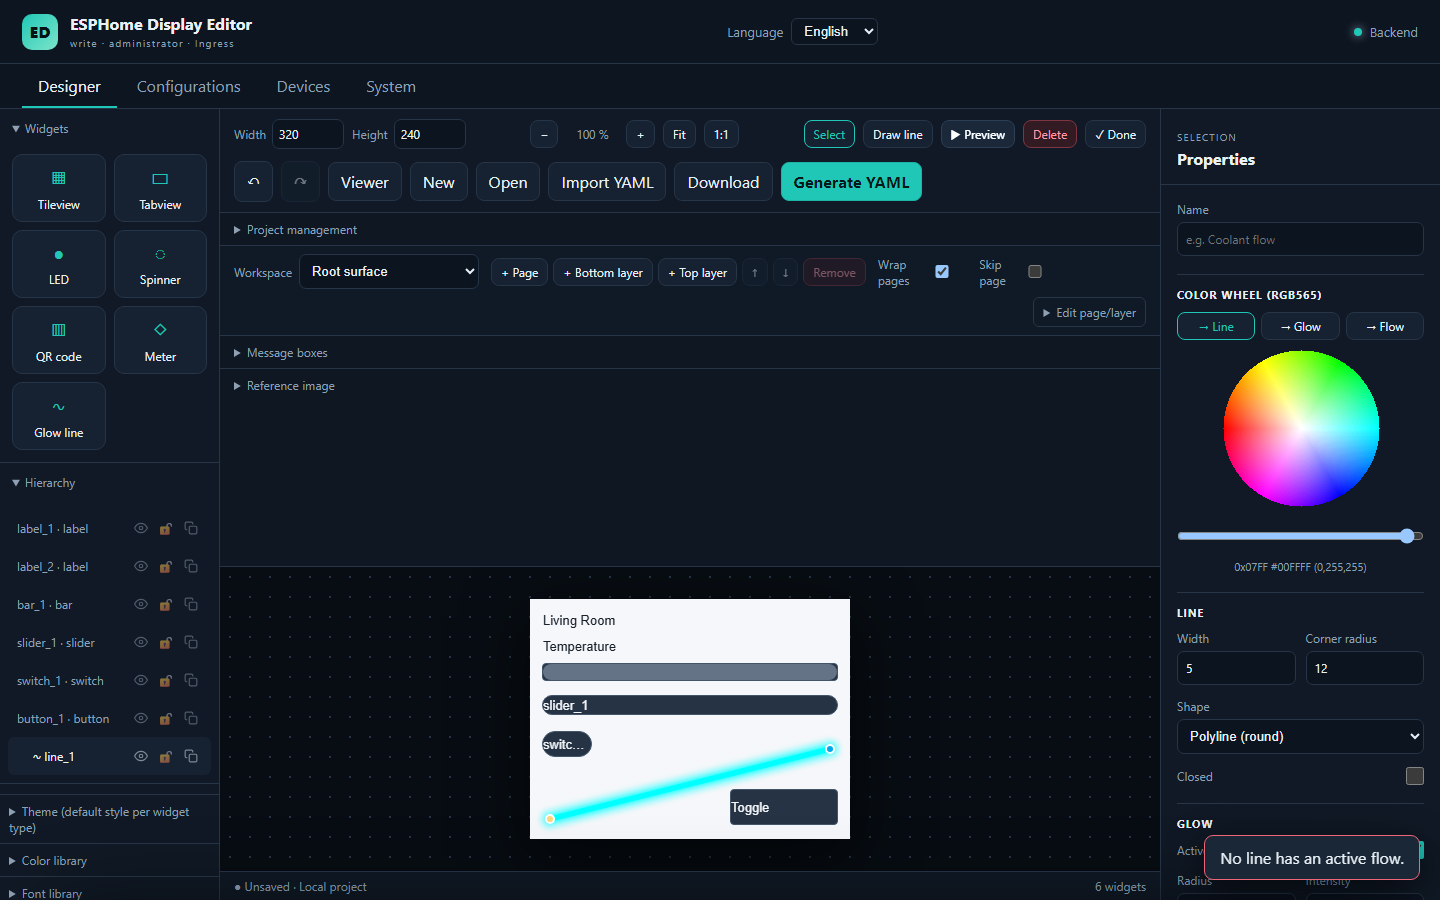
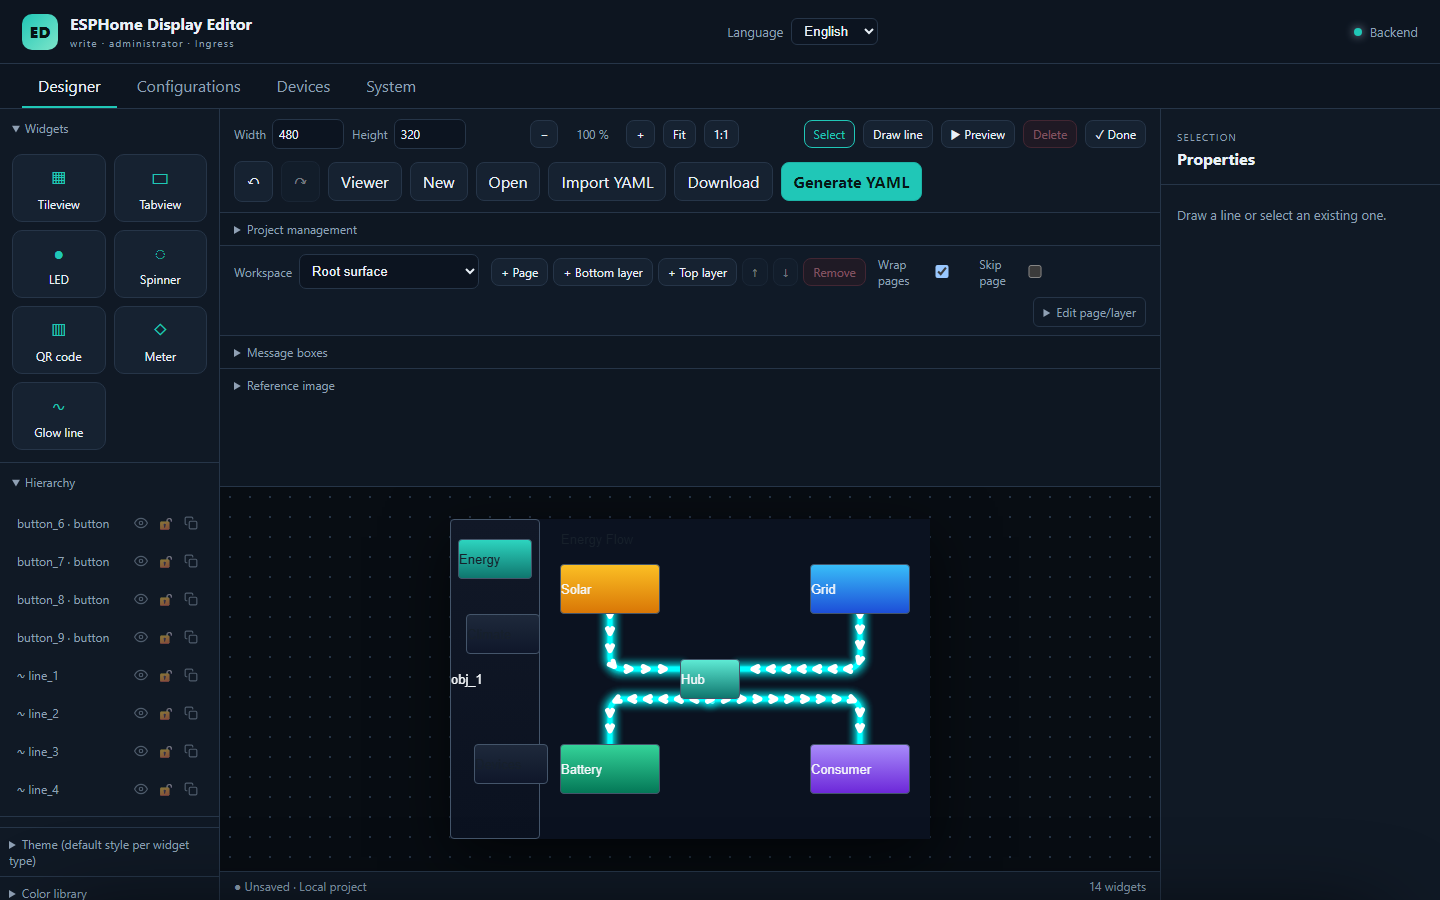
edit readme

diff --git a/README.md b/README.md
@@ -65,12 +65,27 @@ state and content — in the properties panel on the right.
 ### GlowLine animated flow lines
 
 Draw a line by adding it from the palette and dragging its endpoint handles
-into place; an RGB565 colour wheel lets you tune the line, glow and flow
-colours to exactly what the target display will reproduce.
+into place, then use "Draw line" to append further points — corners snap to
+straight, right-angled segments just as easily as a curved diagonal. An
+RGB565 colour wheel and per-line line/glow/flow settings (in the properties
+panel on the right) let you tune exactly what the target display will
+reproduce.
 
-![A glowing diagonal flow line drawn on the canvas](docs/screenshots/glowline-editor.png)
+A small energy-flow dashboard built entirely from Designer widgets: a
+sidebar navigation menu, four components (Solar, Grid, Battery, Consumer)
+routed through a central hub with right-angled GlowLines, each with its own
+animated flow. The component cards use the same per-widget style properties
+as any other widget — background gradient, gradient direction and a
+colour-matched glow shadow — for a look well beyond flat single colours:
 
-![GlowLine colour wheel and line/glow/flow property panel](docs/screenshots/glowline-color-wheel.png)
+![Solar, Grid, Battery and Consumer connected through a hub with right-angled GlowLines, next to a sidebar menu, all styled with colour gradients and glow shadows](docs/screenshots/glowline-editor.png)
+
+Enabling **Flow** animates moving markers along each line with a
+configurable marker shape, spacing, size and direction — this is what makes
+a GlowLine read as live energy/data flow between components instead of a
+static connector:
+
+![Animated arrow markers flowing along right-angled GlowLines between Solar, Grid, Battery, Consumer and a central hub](docs/screenshots/glowline-energy-flow.gif)
 
 ### Generating ESPHome YAML
 
